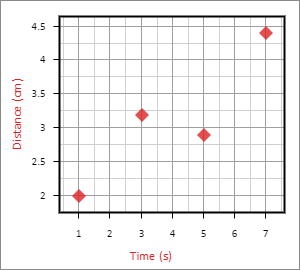
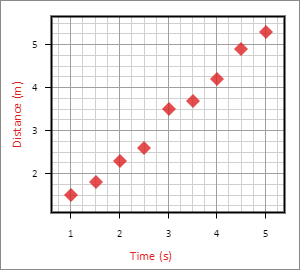
Made the getting started data more realistic.

diff --git a/site/tutorials/getting_started/index.html b/site/tutorials/getting_started/index.html
@@ -188,7 +188,7 @@
 <p>For this tutorial, we will demonstrate the basics of Yob by plotting the time and distance traveled of a ball rolling across the floor and determining its projected distance traveled as time goes on.</p>
 <hr />
 <h2 id="installation">Installation</h2>
-<p>First thing’s first.  If you don’t have Yob installed already, visit our <a href="https://chrome.google.com/webstore/detail/yob/doghjhjgnmiikbjphdcdeehhkfdembpf">Google Doc add-on store page</a> and click “Install.”</p>
+<p>First thing’s first.  If you don’t have Yob installed already, visit our <a href="https://chrome.google.com/webstore/detail/yob/doghjhjgnmiikbjphdcdeehhkfdembpf">Google Doc add-on store page</a>.</p>
 <p>To start Yob, open a Google Doc and select <strong>Add-ons</strong> &gt; <strong>Yob</strong> &gt; <strong>Open Editor</strong>.</p>
 <div class="centered"><img src="../../img/start_yob.png"/></div>
 
@@ -201,32 +201,20 @@
 <h2 id="plotting-data">Plotting Data</h2>
 <p>Click “Data Sets” from the main menu, then click the + icon to create a new Data Set. Locate the table editor at the bottom of the menu.  Here, we can enter the time-distance data from our ball experiment. Here is some sample data that we have supplied for you (you may simply copy and paste this data):</p>
 <table>
-    <thead>
-    <tr>
-        <th>Time (s)</th>
-        <th>Distance (cm)</th>
-    </tr>
-    </thead>
-    <tr>
-        <td>1</td>
-        <td>2</td>
-    </tr>
-    <tr>
-        <td>3</td>
-        <td>3.2</td>
-    </tr>
-    <tr>
-        <td>5</td>
-        <td>2.9</td>
-    </tr>
-    <tr>
-        <td>7</td>
-        <td>4.4</td>
-    </tr>
+    <thead><tr><th>Time (s)</th><th>Distance (m)</th></tr></thead>
+    <tr><td>1.0</td><td>1.5</td></tr>
+    <tr><td>1.5</td><td>1.8</td></tr>
+    <tr><td>2.0</td><td>2.3</td></tr>
+    <tr><td>2.5</td><td>2.6</td></tr>
+    <tr><td>3.0</td><td>3.5</td></tr>
+    <tr><td>3.5</td><td>3.7</td></tr>
+    <tr><td>4.0</td><td>4.2</td></tr>
+    <tr><td>4.5</td><td>4.9</td></tr>
+    <tr><td>5.0</td><td>5.3</td></tr>
 </table>
 
-<p>Once entered into the table, the data can be viewed in the graph preview.</p>
-<p>Next, let’s put proper labels on our Data Set.  We will set the xLabel field to <strong>Time</strong> and the xUnit field to <strong>s</strong> for seconds, then the yLabel field to <strong>Distance</strong> and the yUnit field to <strong>cm</strong> for centimeters.</p>
+<p>Once entered into the table, the data can be viewed in the graph preview.  To automatically fit the window to show all of the data, select the <strong>Auto Zoom</strong> checkbox.</p>
+<p>Next, let’s put proper labels on our Data Set.  We will set the xLabel field to <strong>Time</strong> and the xUnit field to <strong>s</strong> for seconds, then the yLabel field to <strong>Distance</strong> and the yUnit field to <strong>m</strong> for meters.</p>
 <p>Your graph should now look something like the following:</p>
 <div class="centered"><img src="../../img/sample_data.png"></div>
 
@@ -240,7 +228,9 @@
 <p>To introduce a little more color on this graph, let’s change the style of the Curve Fit line.  To accomplish this, click on the line preview icon near the top of the menu.  You will be presented with several styling options.  Let’s change the color blue and make the line dashed, like so:</p>
 <div class="centered"><img src="../../img/style_example.png"></div>
 
-<p>And what’s a graph without a title?  A title can be added to the graph back in the Labels submenu.  At the top of the menu, enter “Distance vs Time” in the Title field.</p>
+<p>And what’s a graph without a title?  A title can be added to the graph back in the Labels submenu.  At the top of the menu, enter “Distance vs Time” in the Title field.  When you're done, you should have something like this:</p>
+<div class="centered"><img src="../../img/complete_graph_example.png"></div>
+
 <h2 id="inserting-the-graph">Inserting the Graph</h2>
 <p>Now that our graph is complete, we can send it to the document. To do this, simply click “Insert” at the top of Yob, then select the size of the graph you want to insert. After the graph is added, you may notice that it has a link attached to it. <strong>Do not remove this link.</strong> This link is how Yob knows where the graph data is stored on your Google Drive account, so that you may edit the graph later if you wish.</p>
 <p>If you would like to learn more about how Yob stores graph data, view <a href="../../references/data_storage/">the data storage reference</a> where we explain this in greater detail.</p>

diff --git a/site/about/index.html b/site/about/index.html
@@ -181,11 +181,11 @@
 <p>Originally, we were developing in Java and our plans for the software were much more ambitious.  We weren't experienced developers, but we managed to hack together an account system and beginnings of an assignment editor by the end of the summer.  The old login screen looked like this:</p>
 <div class="centered"><img src="../img/original_yob.png"></div>
 
-<p>To our surprise, the school decided to replace all of the lab laptops with Chromebooks that fall, which Java applications were not easily compatible with.  Moreover, all of the teachers had started using Google Classroom, which made our software largely irrelevant.</p>
-<p>This was a huge setback for us, and we nearly gave up, but we decided to start over in JavaScript, an entirely new language to us at the time.  We also chose to scale back and focus on making a graphing application to complent, rather than replace Google Docs and Google Classroom.  This decision and two years of development got the project to where it is today.</p>
+<p>To our surprise, the school decided to replace all of the lab laptops with Chromebooks when fall came around, which Java applications were not easily compatible with.  Moreover, all of the teachers had started using Google Classroom, which made our software largely irrelevant.</p>
+<p>This was a huge setback for us, and we nearly gave up, but we decided to start over and use JavaScript, an entirely new language to us at the time.  We also chose to scale back and focus on making a graphing application to complement, rather than replace Google Docs and Google Classroom.  This decision and two years of development got the project to where it is today.</p>
 <hr />
 <h2 id="acknowledgements">Acknowledgements</h2>
-<p>We owe a great debt of gratitude to <strong>Mr. Dean Roush</strong>, the Physics and Math teacher at Luck High School, for helping us test and shape the software to his needs.  This project would have never gotten off the ground without his patience, encouragement, trust, and willingness to test our software as it developed.</p></div>
+<p>We owe a great debt of gratitude to <strong>Mr. Dean Roush</strong>, the Physics teacher at Luck High School, for helping us test and shape the software.  This project would have never gotten off the ground without his patience and trust, would have never progressed so far without his willingness to test our software as it developed.</p></div>
         </div>
 
         <footer class="col-md-12">

diff --git a/site/index.html b/site/index.html
@@ -181,7 +181,7 @@
 <h3 id="simple-but-powerful">Simple but powerful</h3>
 <p>Making graphs in Yob is quick and easy, making it a great choice for users who just want to plot some data and stick the graph in a document.  However, Yob also comes with many advanced features such as <strong>calculated columns</strong> and <strong>non-linear curve fitting</strong>, making it a useful tool for more advanced users.</p>
 <h3 id="convenient">Convenient</h3>
-<p>Yob runs entirely within a Google Doc, so you never have to worry about transferring graphs between your computer and the document.  In fact, Yob <strong>blurs the lines</strong> between graph files and your document entirely.</p>
+<p>Yob runs entirely within a Google Doc, so you never have to worry about transferring graphs between your computer and the document.  In fact, Yob <a href="references/data_storage/">blurs the lines</a> between graph files and your document entirely.</p>
 <hr />
 <h2 id="getting-started">Getting Started</h2>
 <p>Follow <a href="tutorials/getting_started/">this tutorial</a> to familiarize yourself with the basics of Yob.  More advanced users can check out <a href="./references/reference.md">the reference</a> to learn more.</p>

diff --git a/site/references/expression_reference/index.html b/site/references/expression_reference/index.html
@@ -229,6 +229,7 @@
         <tr><td>floor(x)</td><td>Floor of x (round down)</td></tr>
         <tr><td>ceil(x)</td><td>Ceiling of x (round up)</td></tr>
         <tr><td>round(x)</td><td>x rounded to the nearest integer</td></tr>
+        <tr><td>random(x)</td><td>Random value between 0 and x</td></tr>
         <tr><td>sin(x)</td><td>Sine of x (in radians)</td></tr>
         <tr><td>cos(x)</td><td>Cosine of x (in radians)</td></tr>
         <tr><td>tan(x)</td><td>Tangent of x (in radians)</td></tr>

diff --git a/docs/tutorials/getting_started.md b/docs/tutorials/getting_started.md
@@ -26,35 +26,23 @@ Click “Data Sets” from the main menu, then click the + icon to create a new 
 
 
 <table>
-	<thead>
-	<tr>
-		<th>Time (s)</th>
-		<th>Distance (cm)</th>
-	</tr>
-	</thead>
-	<tr>
-		<td>1</td>
-		<td>2</td>
-	</tr>
-	<tr>
-		<td>3</td>
-		<td>3.2</td>
-	</tr>
-	<tr>
-		<td>5</td>
-		<td>2.9</td>
-	</tr>
-	<tr>
-		<td>7</td>
-		<td>4.4</td>
-	</tr>
+	<thead><tr><th>Time (s)</th><th>Distance (m)</th></tr></thead>
+    <tr><td>1.0</td><td>1.5</td></tr>
+    <tr><td>1.5</td><td>1.8</td></tr>
+    <tr><td>2.0</td><td>2.3</td></tr>
+    <tr><td>2.5</td><td>2.6</td></tr>
+    <tr><td>3.0</td><td>3.5</td></tr>
+    <tr><td>3.5</td><td>3.7</td></tr>
+    <tr><td>4.0</td><td>4.2</td></tr>
+    <tr><td>4.5</td><td>4.9</td></tr>
+    <tr><td>5.0</td><td>5.3</td></tr>
 </table>
 
 
-Once entered into the table, the data can be viewed in the graph preview.
+Once entered into the table, the data can be viewed in the graph preview.  To automatically fit the window to show all of the data, select the **Auto Zoom** checkbox.
 
 
-Next, let’s put proper labels on our Data Set.  We will set the xLabel field to __Time__ and the xUnit field to __s__ for seconds, then the yLabel field to __Distance__ and the yUnit field to __cm__ for centimeters.
+Next, let’s put proper labels on our Data Set.  We will set the xLabel field to __Time__ and the xUnit field to __s__ for seconds, then the yLabel field to __Distance__ and the yUnit field to __m__ for meters.
 
 
 Your graph should now look something like the following:
@@ -83,7 +71,10 @@ To introduce a little more color on this graph, let’s change the style of the 
 <div class="centered"><img src="../../img/style_example.png"></div>
 
 
-And what’s a graph without a title?  A title can be added to the graph back in the Labels submenu.  At the top of the menu, enter “Distance vs Time” in the Title field.
+And what’s a graph without a title?  A title can be added to the graph back in the Labels submenu.  At the top of the menu, enter “Distance vs Time” in the Title field.  When you're done, you should have something like this:
+
+
+<div class="centered"><img src="../../img/complete_graph_example.png"></div>
 
 
 ## Inserting the Graph
